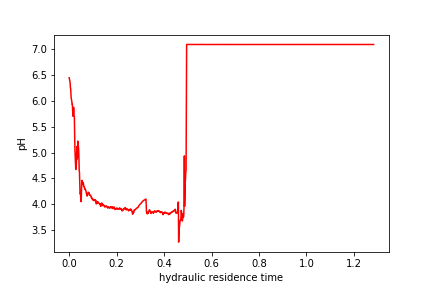
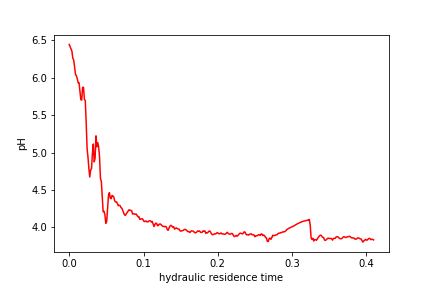
asd

diff --git a/Lab2/team10_lab2.md b/Lab2/team10_lab2.md
@@ -14,8 +14,8 @@ import matplotlib.pyplot as plt
 import pandas as pd
 ```
 
-$K_1 = 10^{-6.3}, \text{ }K_2 = 10^{-10.3}, \text{ }
-K_H = 10^{-1.5} \text{ mol L}^{-1} \text{atm}^{-1}, \newline P_{CO_2}=10^{-3.5} \text{ atm}, \text{ }K_w = 10^{-14}$
+$K_1 = 10^{-6.3}\newline K_2 = 10^{-10.3}\newline
+K_H = 10^{-1.5} \text{ mol L}^{-1} \text{atm}^{-1} \newline P_{CO_2}=10^{-3.5} \text{ atm}\newline K_w = 10^{-14}$
 
 <b>1. Plot measured pH of the lake versus dimensionless hydraulic residence time (t/θ).</b>
 
@@ -135,6 +135,8 @@ plt.show()
 
 <b>5. Analyze the data from the second experiment and graph the data appropriately. What did you learn from the second experiment?</b>
 
+In the second experiment, sodium bicarbonate was replaced with calcium carbonate to give the same acid neutralizing capacity.
+
 ```python
 dfp = "https://raw.githubusercontent.com/lw583/CEE4530/master/Lab2/lab2_datasheet2.txt"
 df = pd.read_csv(dfp,delimiter='\t')
@@ -142,16 +144,37 @@ df = pd.read_csv(dfp,delimiter='\t')
 lakepHnotes2 = epa.notes(dfp)
 lakepHnotes2
 start = 8
+end = 350
 column = 1
-lakepH2 = epa.column_of_data(dfp,start,column)
-time2 = ((epa.column_of_time(dfp,start))/theta).to(u.dimensionless)
+lakepH2 = epa.column_of_data(dfp,start,column,end)
+time2 = ((epa.column_of_time(dfp,start,end))/theta).to(u.dimensionless)
 
 fig, ax = plt.subplots()
 ax.plot(time2,lakepH2,'r')
 plt.xlabel('hydraulic residence time')
 plt.ylabel('pH')
 
-plt.savefig('pHgraph2.png')
+plt.savefig('Lab2/pHgraph2.png')
 plt.show()
 ```
 ![pH Graph 2](https://raw.githubusercontent.com/lw583/CEE4530/master/Lab2/pHgraph2.png)
+
+As it can be seen on the graph, the pH dropped very fast and thus experiment was stopped quickly. This was because the calcium carbonate did not dissolve and remained on the sides of the tank. Thus, the actual ANC in the tank was much lower than what it was  calculated to be.
+
+#### Questions ####
+
+<b>1. What do you think would happen if enough NaHCO3 were added to the lake to maintain an ANC greater than 50μeq/L for 3 residence times with the stirrer turned off? How much NaHCO3 would need to be added?</b>
+
+If the stirrer was turned off, not all of the sodium bicarbonate will end up dissolving different parts of lake will have different pH. The ANC will remain at the bottom of the lake, while the top of the lake will be very acidic. <u>Thus, a lot more sodium bicarbonate would need to be added to give the same result.</u>
+
+<b>2. What are some of the complicating factors you might find in attempting to remediate a lake using CaCO3? Below is a list of issues to consider.
+
+- extent of mixing
+- solubility of CaCO3 (find the solubility and compare with NaHCO3)
+- density of CaCO3 slurry (find the density of CaCO3)</b>
+
+CaCO3 is hard to dissolve. This is shown in the results of our experiment (Question 5), where the CaCO3 was not dissolved at all. The solubility of CaCO3 is ___________ whereas the solubility of NaHCO3 is _____________.
+
+Furthermore, since the density of CaCO3 is high, most of the CaCO3 will sink to the bottom of the lake. This means that CaCO3 is likely not well mixed in the lake as the lake will be highly concentrated at the bottom of the lake and not really concentrated at the top of the lake.
+
+As a result of its low solubility, there will be an inability to mix the CaCO3 well in the lake. There will be regions of much higher concentration at the bottom of the lake and regions of much lower concentration at the top of the lake. This would cause the lake to be "over-remediated" at parts of the lake, but not remediated at all at other parts of the lake.
